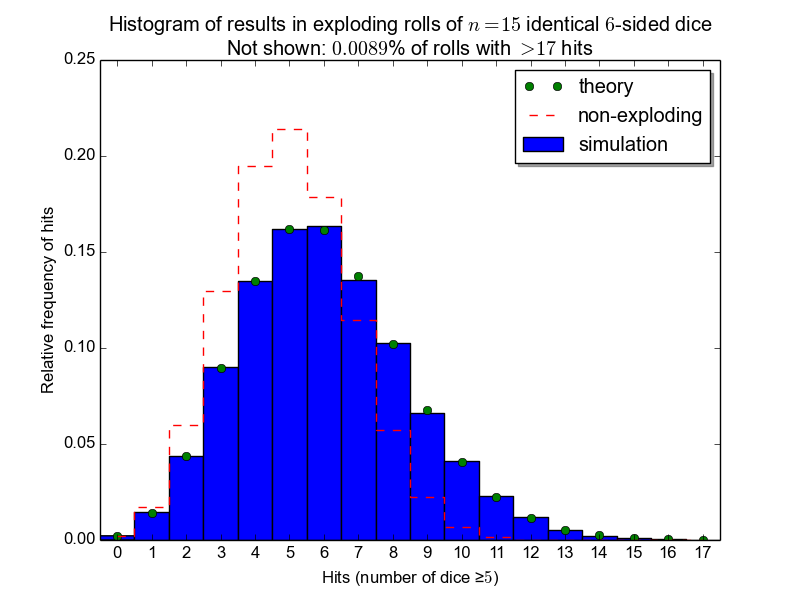
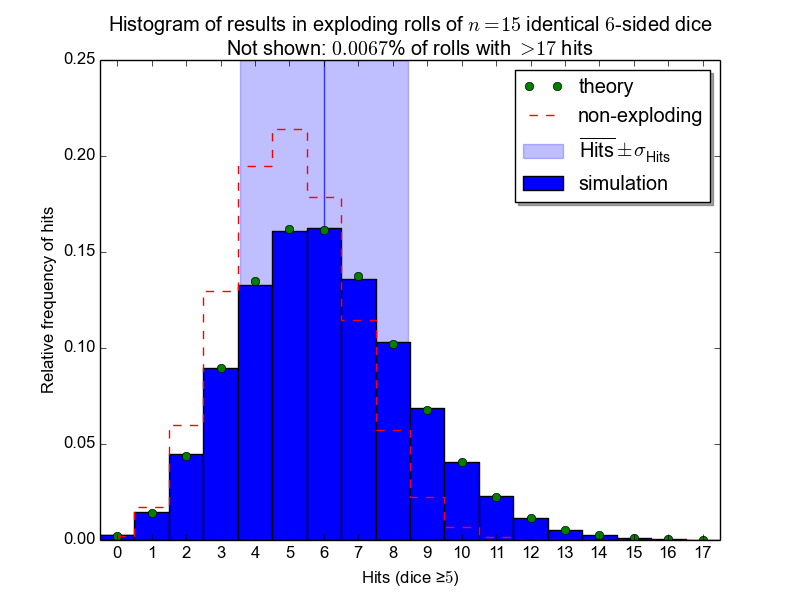
Expectation value and standard deviation

diff --git a/dist/index.html b/dist/index.html
@@ -18,43 +18,16 @@
     </style>
     <script src="html5-canvas-bar-graph.js"></script>
     <script type="text/javascript">
-
-        function randrange(min, max) {
-        /*
-        Return an integar between min and max.
-        */
-            return Math.floor(Math.random() * (max - min + 1)) + min;
-        }
-
-        function Roll_dice(sds, nbr, trh, r6) {
-        /*
-        Return a string giving the number of hits in a roll of `nbr` fair,
-        identical, `sds`-sided dice, where a maximum roll 'explodes' and every die
-        equal or higher to `trh` is deemed a hit.
-        */
-            var succ = 0, fail = 0;
-            for(i=0; i<nbr; ++i) {
-                rslt = randrange(1,sds);
-                if(rslt==1) fail++;
-                else if(rslt>=trh) succ++;
-                while(r6 && rslt == sds) {
-                    rslt = randrange(1,sds);
-                    succ += rslt>=trh;
-                }
-            }
-            return String(succ) + ( succ==1 ? ' Success ' : ' Successes ')
-                + ((fail > nbr/2) ? '(critical faliure: '+ fail +')' : '');
-        }
-
+        /*********************************************************************
+        * Update graph and result <div>s with a new roll.
+        *********************************************************************/
         function Roll(val, r6id, densid, outid) {
-        /*
-        Update graph and result <div> with a new roll.
-         */
             console.log('Roll update.');
             var val   = parseInt(document.getElementById('field').value);
             var sides = parseInt(document.getElementById('sides').value);
             var thres = parseInt(document.getElementById('thres').value);
             var out   = document.getElementById("area");
+            var expct = document.getElementById("expect");
             var r6    = document.getElementById("r6").checked;
             var dens  = document.getElementById("dens").checked;
             if( val<1 || sides<1 || val>60 ) {
@@ -70,6 +43,11 @@
                 document.getElementById('thres').value = thres;
             }
             out.innerHTML = Roll_dice(sides, val, thres, r6);
+            expect.innerHTML = 'Expectation value: '+ (
+                r6
+                    ? Calcexpdev_exploding(sides, val, thres)
+                    : Calcexpdev_binomial(sides, val, thres)
+            );
 
             // Get Probability Density
             var prob = new Array();
@@ -115,14 +93,41 @@
             if(graph) graph.update( prob );
         }
 
-        function binomial(nbr, spl) {
-        /*
-        Get the total number of unique combinations of spl samples drawn
-        from nbr  possible outcomes.
+        /*********************************************************************
+        * Return an integar between min and max.
+        *********************************************************************/
+        function randrange(min, max) {
+            return Math.floor(Math.random() * (max - min + 1)) + min;
+        }
 
-        nbr ... total number of items
-        spl ... size of the sample
-        */
+        /*********************************************************************
+        * Return a string giving the number of hits in a roll of `nbr` fair,
+        * identical, `sds`-sided dice, where a maximum roll 'explodes' and
+        * every die equal or higher to `trh` is deemed a hit.
+        *********************************************************************/
+        function Roll_dice(sds, nbr, trh, r6) {
+            var succ = 0, fail = 0;
+            for(i=0; i<nbr; ++i) {
+                rslt = randrange(1,sds);
+                if(rslt==1) fail++;
+                else if(rslt>=trh) succ++;
+                while(r6 && rslt == sds) {
+                    rslt = randrange(1,sds);
+                    succ += rslt>=trh;
+                }
+            }
+            return String(succ) + ( succ==1 ? ' Success ' : ' Successes ')
+                + ((fail > nbr/2) ? '(critical faliure: '+ fail +')' : '');
+        }
+
+        /*********************************************************************
+        * Get the total number of unique combinations of spl samples drawn
+        * from nbr  possible outcomes.
+        *
+        * nbr ... total number of items
+        * spl ... size of the sample
+        *********************************************************************/
+        function binomial(nbr, spl) {
             if ((typeof nbr !== 'number') || (typeof spl !== 'number')) return false;
             if(spl>nbr) return 0.0;
             if(spl<0) return 0.0;
@@ -132,26 +137,37 @@
             return coeff;
         }
 
+        /*********************************************************************
+        * Return the probability for `h` hits in a roll of `n` fair, identical
+        * `d`-sided non-exploding dice, where very die equal or higher to `t`
+        * is deemed a hit.
+        *********************************************************************/
         function Calcprob_binomial(sds, nbr, trh, hts) {
-        /*
-        Return the probability for `h` hits in a roll of `n` fair, identical
-        `d`-sided non-exploding dice, where very die equal or higher to `t` is
-        deemed a hit.
-        */
             var tmp = (sds-trh+1) / sds;
             if(hts>nbr) return 0.0;
             if(nbr==1) return hts==1 ? (sds-trh+1)/sds : 0.0;
             return binomial(nbr,hts) * Math.pow(tmp, hts) * Math.pow(1.0-tmp, nbr-hts);
         }
 
-        function Calcprob_exploding(sds, nbr, trh, hts) {
-        /*
-        Return the probability for `h` hits in a roll of `n` fair, identical
-        `d`-sided exploding dice, where very die equal or higher to `t` is
-        deemed a hit.
+        /*********************************************************************
+        * Return expectation value and standard deviation for binomial
+        * distribution.
+        *********************************************************************/
+        function Calcexpdev_binomial(sds, nbr, trh) {
+            prob = (sds-trh+1)/sds;
+            Expect = nbr * prob;
+            sdev = Math.sqrt(nbr * prob * (1.0-prob));
+            return Expect.toPrecision(2) +' +/- '+ sdev.toPrecision(2);
+        }
 
-        Taken from: http://math.stackexchange.com/a/1649514/11949
-        */
+        /*********************************************************************
+        * Return the probability for `h` hits in a roll of `n` fair, identical
+        * `d`-sided exploding dice, where very die equal or higher to `t` is
+        * deemed a hit.
+        *
+        * Taken from: http://math.stackexchange.com/a/1649514/11949
+        *********************************************************************/
+        function Calcprob_exploding(sds, nbr, trh, hts) {
             if(nbr==1 && hts<1) return (trh-1.0);
             var factor = Math.pow(trh-1, nbr) / Math.pow(sds, nbr+hts);
             var probsum, oldsum, tmp1, tmp2, tmp3;
@@ -169,12 +185,25 @@
             return factor * probsum;
         }
 
+        /*********************************************************************
+        * Return expectation value and standard deviation for open-ended
+        * binomial distribution.
+        *********************************************************************/
+        function Calcexpdev_exploding(sds, nbr, trh) {
+            Expect = nbr * (sds-trh+1) / (sds-1);
+            sdev = Math.sqrt(
+                Expect - nbr * (Math.pow(sds-trh, 2) - 1) / Math.pow(sds-1, 2)
+            );
+            return Expect.toPrecision(2) +' +/- '+ sdev.toPrecision(2);
+        }
+
     </script>
 </head><body onload="Roll();">
 
     <i style="font-size:75%">Your roll:</i>
 
     <p id="area" style="font-size:120%; font-weight:bolder;"></p>
+    <p id="expect" style="font-size:75%;"></p>
 
     <span>Dice:&nbsp;&nbsp;</span>
     <input id="field" type="number" min="1" max="60" value="5" style="width:4em;" onclick="Roll();" onchange="Roll();" onkeyup="Roll();">

diff --git a/exploding_dice_hist.py b/exploding_dice_hist.py
@@ -69,6 +69,15 @@ def calcprob(d, n, t, h):
         probsum += binom(n,k) * binom(n+h-k-1, h-k) * (d*(d-t)/(t-1))**k
     return factor * probsum
 
+def calcexpdev(d, n, t):
+    """
+    Return expectation value and standard deviation for open-ended binomial
+    distribution.
+    """
+    E = n * (d-t+1) / (d-1)
+    s = math.sqrt(E - n * ((d-t)**2 - 1) / (d-1)**2)
+    return E, s
+
 
 def calcrprob(d, n, t, h):
     """
@@ -76,17 +85,28 @@ def calcrprob(d, n, t, h):
     `d`-sided non-exploding dice, where every die equal or higher to `t` is
     deemed a hit. This is obviously a binomial distribution.
     """
-    tmp = (d-t+1)/d
-    return binom(n, h) * tmp**h * (1-tmp)**(n-h)
+    p = (d-t+1)/d
+    return binom(n, h) * p**h * (1-p)**(n-h)
+
+def calcrexpdev(d, n, t):
+    """
+    Return expectation value and standard deviation for binomial distribution.
+    """
+    p = (d-t+1)/d
+    E = n * p
+    s = math.sqrt(n * p * (1-p))
+    return E, s
 
 
 if __name__ == '__main__':
     progname = os.path.splitext(os.path.basename( __file__ ))[0]
-    vstring = ' v0.1\nWritten by con-f-use@gmx.net\n(Thu Feb 11 21:25:46 CET 2016) on confusion'
+    vstring = ' v0.1\nWritten by con-f-use@gmx.net\n(Thu Feb 2016)'
     args = docopt(__doc__ % locals(), version=progname+vstring)
 
     # VALIDATE INPUT
-    d, n, t = int(float(args['-d'])), int(float(args['-n'])), int(float(args['-t']))
+    d, n, t = (
+        int(float(args['-d'])), int(float(args['-n'])), int(float(args['-t']))
+    )
     assert d>0 and n>0 and d>=t>0, 'Invalid input parameters'
 
     # SIMULATE ROLLS
@@ -134,11 +154,19 @@ if __name__ == '__main__':
     )
     hitstext = ''
     freqtext = ''
+    freqtext2= ''
     if args['--accumulate']:
-        hitstext = 'At least x '
-        freqtext = 'at least x '
-    plt.xlabel(u'{}Hits (number of dice ≥${}$)'.format(hitstext, t))
-    plt.ylabel('Relative frequency of {}hits'.format(freqtext))
+        hitstext = 'Minimum '
+        freqtext = 'this many '
+        freqtext2 = ' or more'
+    plt.xlabel(u'{}Hits (dice ≥${}$)'.format(hitstext, t))
+    plt.ylabel('Relative frequency of {}hits{}'.format(freqtext, freqtext2))
+    E, s = calcexpdev(d, n, t)
+    plt.axvspan(
+        E-s, E+s, color='b', alpha=0.25,
+        label='$\overline{\mathdefault{Hits}} \pm \sigma_\mathdefault{Hits}$'
+    )
+    plt.axvline(x=E,   linestyle='-', color='b', alpha=0.75)
     plt.xticks(range(0,nbins))
     plt.hist(
         range(0,nbins),
@@ -147,7 +175,14 @@ if __name__ == '__main__':
         label='simulation'
     )
     plt.plot(prob,'o', label='theory')
-    if args['--show-regular']: plt.plot(rprob, '--', drawstyle='steps-mid', label='non-exploding')
+    if args['--show-regular']:
+        plt.plot(rprob, '--', drawstyle='steps-mid', label='non-exploding')
     plt.legend(loc='upper right', shadow=True)#, fontsize='x-large')
-    plt.savefig( args['FILE'][-1] if len(args['FILE']) >= 1 else 'hist_d{}_n{}_t{}{}.png'.format(d, n, t, '_acc' if args['--accumulate'] else '') )
+    plt.savefig(
+        args['FILE'][-1] if len(args['FILE']) >= 1
+            else
+                'hist_d{}_n{}_t{}{}.png'.format(
+                    d, n, t, '_acc' if args['--accumulate'] else ''
+                )
+    )
     plt.show()
